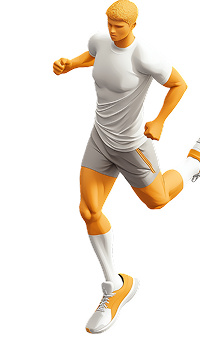
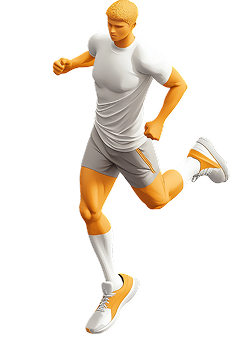
ultimo

Changed region(s): [[0.21, 0.0, 1.0, 0.9855]]

diff --git a/app/(auth)/index.tsx b/app/(auth)/index.tsx
@@ -14,7 +14,7 @@ import { StatusBar } from "expo-status-bar";
 export default function Landing() {
   const { width, height } = useWindowDimensions();
 
-  // ====== Escala y medidas base ======
+  // ====== Escala base para tipografía y paddings ======
   const baseW = 390;
   const scale = Math.min(1.2, Math.max(0.7, width / baseW));
 
@@ -26,11 +26,12 @@ export default function Landing() {
   const contentPadding = Math.max(20, 24 * scale);
   const maxContentW = Math.min(360, width - 2 * contentPadding);
 
-  // ====== Runners (simulación de diseño) ======
-  const leftW = Math.min(width * 0.58, 260);
-  const leftH = leftW * 1.3; // proporción aproximada
-  const rightW = Math.min(width * 0.42, 220);
-  const rightH = rightW * 1.2;
+  // ====== Runners (mismo tamaño + 1.5x + responsivo) ======
+  const baseWForImg = width * 0.22;     // tamaño base relativo a pantalla
+  const scaleImgs = 3;                // factor 1.5x
+  const runnerW = Math.min(baseWForImg * scaleImgs, width * 0.70, 340);
+  const aspectGuess = 1.10;             // ancho/alto aproximado del asset
+  const runnerH = runnerW * aspectGuess;
 
   // Evitar que el contenido quede oculto tras la barra de tabs
   const tabsSafety = 80;
@@ -39,15 +40,41 @@ export default function Landing() {
     <SafeAreaView style={styles.safe}>
       <StatusBar style="light" />
       <View style={styles.container}>
-        {/* Runners (local assets via require) */}
-        <Image source={require('../../assets/images/Sprinter Female.png')} style={{ position: 'absolute', width: leftW, height: leftH, left: 12, top: 84 }} resizeMode="contain" />
-        <Image source={require('../../assets/images/Sprinter Male.png')} style={{ position: 'absolute', width: rightW, height: rightH, right: -8, top: Math.max(180, height * 0.28) }} resizeMode="contain" />
+        {/* Runners */}
+        <Image
+          source={require("../../assets/images/Sprinter Female.png")}
+          style={{
+            position: "absolute",
+            width: runnerW,
+            height: runnerH,
+            left: -Math.max(40, width * 0.08),
+            top: Math.max(60, height * 0.10),
+            zIndex: 1,
+          }}
+          resizeMode="contain"
+        />
+
+        <Image
+          source={require("../../assets/images/Sprinter Male.png")}
+          style={{
+            position: "absolute",
+            width: runnerW,
+            height: runnerH,
+            right: -Math.max(30, width * 0.06),
+            top: Math.max(160, height * 0.35),
+            zIndex: 1,
+          }}
+          resizeMode="contain"
+        />
 
         {/* Contenido inferior */}
         <View
           style={[
             styles.content,
-            { paddingHorizontal: contentPadding, paddingBottom: contentPadding + tabsSafety / 2 },
+            {
+              paddingHorizontal: contentPadding,
+              paddingBottom: contentPadding + tabsSafety / 2,
+            },
           ]}
         >
           <View style={{ width: maxContentW, alignSelf: "flex-start" }}>
@@ -56,7 +83,7 @@ export default function Landing() {
                 styles.brand,
                 {
                   fontSize: brandSize,
-                  fontFamily: "SFProRounded-Semibold", // usa fallback si no está
+                  fontFamily: "SFProRounded-Semibold",
                 },
               ]}
             >
@@ -69,19 +96,24 @@ export default function Landing() {
                 {
                   fontSize: subtitleSize,
                   lineHeight,
-                  fontFamily: "SFProRounded-Semibold", // 600
+                  fontFamily: "SFProRounded-Semibold",
                 },
               ]}
               numberOfLines={3}
             >
-              Mide tu esfuerzo, conecta fitLink y desbloquea el análisis de tu rendimiento al instante.
+              Mide tu esfuerzo, conecta fitLink y desbloquea el análisis de tu
+              rendimiento al instante.
             </Text>
 
             <Pressable
               onPress={() => router.push("/login")}
               style={({ pressed }) => [
                 styles.primaryBtn,
-                { height: btnH, borderRadius: btnRadius, opacity: pressed ? 0.85 : 1 },
+                {
+                  height: btnH,
+                  borderRadius: btnRadius,
+                  opacity: pressed ? 0.85 : 1,
+                },
               ]}
             >
               <Text
@@ -98,7 +130,12 @@ export default function Landing() {
               onPress={() => router.push("/register")}
               style={({ pressed }) => [
                 styles.ghostBtn,
-                { height: btnH, borderRadius: btnRadius, borderWidth: 1, opacity: pressed ? 0.85 : 1 },
+                {
+                  height: btnH,
+                  borderRadius: btnRadius,
+                  borderWidth: 1,
+                  opacity: pressed ? 0.85 : 1,
+                },
               ]}
             >
               <Text
@@ -120,7 +157,7 @@ export default function Landing() {
 const styles = StyleSheet.create({
   safe: { flex: 1, backgroundColor: "black" },
   container: { flex: 1, backgroundColor: "black" },
-  content: { flex: 1, justifyContent: "flex-end", zIndex: 2 },
+  content: { flex: 1, justifyContent: "flex-end", zIndex: 3 }, // encima de las imágenes
   brand: {
     color: "#FFF",
     marginBottom: 10,

diff --git a/components/auth/AuthBackground.tsx b/components/auth/AuthBackground.tsx
@@ -12,8 +12,8 @@ export default function AuthBackground({ children }: Props) {
       <Image source={require('../../assets/images/Tech Blanket.png')} style={styles.decTopLeft} />
       <Image source={require('../../assets/images/Classic Trainer.png')} style={styles.decTopRight} />
       <Image source={require('../../assets/images/Gray Dumbbell.png')} style={styles.decMidLeft} />
-      <Image source={require('../../assets/images/Yellow Towel.png')} style={styles.decBottomLeft} />
-      <Image source={require('../../assets/images/Weighted Barbell.png')} style={styles.decBottomRight} />
+      <Image source={require('../../assets/images/Weighted Barbell.png')} style={styles.decBottomLeft} />
+      <Image source={require('../../assets/images/Yellow Towel.png')} style={styles.decBottomRight} />
       <Image source={require('../../assets/images/Alarm Clock.png')} style={styles.decBottomCenter} />
       {children}
     </View>
@@ -23,9 +23,9 @@ export default function AuthBackground({ children }: Props) {
 const styles = StyleSheet.create({
   container: { flex: 1, backgroundColor: 'black' },
   decTopLeft: { position: 'absolute', left: 24, top: 64, width: 80, height: 80 },
-  decTopRight: { position: 'absolute', right: 16, top: 140, width: 90, height: 94, transform: [{ rotate: '180deg' }] },
-  decMidLeft: { position: 'absolute', left: 24, top: 200, width: 100, height: 95 },
-  decBottomLeft: { position: 'absolute', left: 24, bottom: 120, width: 90, height: 90 },
-  decBottomRight: { position: 'absolute', right: 16, bottom: 110, width: 90, height: 98, transform: [{ rotate: '180deg' }] },
-  decBottomCenter: { position: 'absolute', alignSelf: 'center', bottom: 40, width: 100, height: 100 },
+  decTopRight: { position: 'absolute', right: 50, top: 140, width: 90, height: 94},
+  decMidLeft: { position: 'absolute', left: 60, top: 200, width: 100, height: 95 },
+  decBottomLeft: { position: 'absolute', left: 35, bottom: 120, width: 90, height: 90 },
+  decBottomRight: { position: 'absolute', right: 20, bottom: 160, width: 90, height: 98 },
+  decBottomCenter: { position: 'absolute', alignSelf: 'center', bottom: 10, width: 100, height: 100 },
 });

diff --git a/app/(tabs)/Perfil/index.tsx b/app/(tabs)/Perfil/index.tsx
@@ -50,8 +50,8 @@ export default function Informacion() {
         <Option
           icon="log-out"
           label="Cerrar sesión"
-          background="#3B0F0F"
-          color="#FF6B6B"
+          background="#390f3bff"
+          color="#ff6bd5ff"
           onPress={() => {
             Alert.alert('Cerrar sesión', '¿Deseas cerrar sesión?', [
               { text: 'Cancelar', style: 'cancel' },
